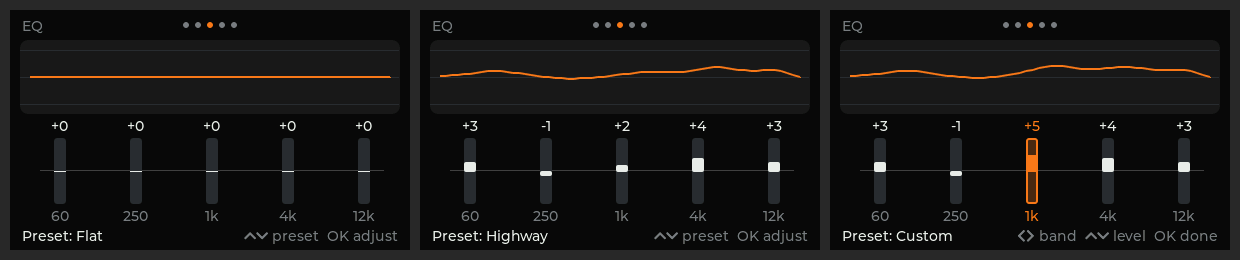
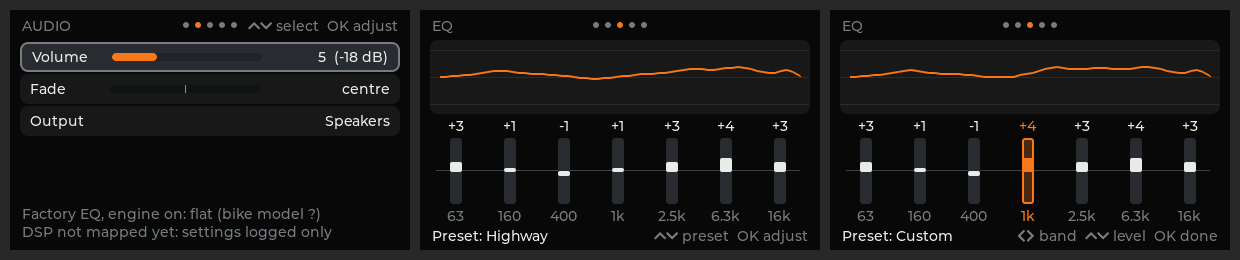
Tone is a 7-band EQ; drop stock bass/treble
Bass/treble overlapped the EQ's end bands and used 2 of the 7 biquads in
the set stock's DSP_SET_TONE writes, which is what limited the EQ to 5
bands. Per direction, assume all 7 slots are available and make the EQ
the only tone control.

- libhbas/eq: 7 bands at ISO spacing (63, 160, 400 Hz, 1, 2.5, 6.3,
  16 kHz), Q 1.05 to match the ~1.33-octave spacing, presets redone for
  7 bands; tests: one band at full boost hits its gain at centre, all
  bands at +/-10 dB stay encodable and fit one 35-word safe-load.
- libhbas/audio: bass/treble removed from settings, items and dB output.
- Audio page: Volume, Fade, Output; "Factory EQ" label for the automatic
  profile so it isn't confused with the EQ page.
- EQ page: 7 sliders; logging backend shows the 7-biquad safe-load.
- AUDIO.md: records the 7-free-slots assumption and that bench capture
  item 3 is the check for it.

Verified: libhbas 5/5, PC builds, radio image cross-builds and validates.

diff --git a/software/hogtied-ui/src/ui_audio.c b/software/hogtied-ui/src/ui_audio.c
@@ -1,6 +1,7 @@
 // SPDX-License-Identifier: MIT
 /*
- * Audio page. Settings, ranges and step-to-dB curves are stock calibration
+ * Audio page: volume, fade, output. Tone is the 7-band EQ page (ui_eq.c),
+ * which replaces stock's bass/treble. Ranges and step-to-dB curves are stock calibration
  * (libhbas/audio, docs/findings/AUDIO.md). The factory EQ profile follows
  * the engine-running flag from the bike, as stock eqService does.
  *
@@ -16,7 +17,7 @@
 enum { ROW_H = 30, ROW_Y0 = 32 };
 
 static const char *const row_names[HBAS_AI_COUNT] = {
-	"Volume", "Bass", "Treble", "Fade", "Output",
+	"Volume", "Fade", "Output",          /* tone lives on the EQ page */
 };
 static const char *const output_names[HBAS_OUT_COUNT] = {
 	"Speakers", "Driver headset", "Passenger headset",
@@ -90,10 +91,6 @@ static void refresh(void)
 	else
 		lv_label_set_text_fmt(row_val[HBAS_AI_VOLUME], "%u  (%d dB)", audio.volume[audio.output],
 				      hbas_volume_step_db(audio.volume[audio.output]));
-	lv_bar_set_value(row_bar[HBAS_AI_BASS], audio.bass, LV_ANIM_OFF);
-	lv_label_set_text_fmt(row_val[HBAS_AI_BASS], "%d dB", hbas_tone_step_db(audio.bass));
-	lv_bar_set_value(row_bar[HBAS_AI_TREBLE], audio.treble, LV_ANIM_OFF);
-	lv_label_set_text_fmt(row_val[HBAS_AI_TREBLE], "%d dB", hbas_tone_step_db(audio.treble));
 	lv_bar_set_value(row_bar[HBAS_AI_FADE], (int)audio.fade - HBAS_FADE_STEPS / 2, LV_ANIM_OFF);
 	if (audio.fade == HBAS_FADE_STEPS / 2)
 		lv_label_set_text(row_val[HBAS_AI_FADE], "centre");
@@ -108,7 +105,7 @@ static void refresh(void)
 	else
 		hbas_eq_profile_name(eq, sizeof(eq), bike_cfg < 0 ? 0 : (unsigned)bike_cfg,
 				     engine_running, audio.output);
-	lv_label_set_text_fmt(lbl_eq, "EQ auto, engine %s: %s",
+	lv_label_set_text_fmt(lbl_eq, "Factory EQ, engine %s: %s",
 			      last_engine < 0 ? "?" : engine_running ? "on" : "off", eq);
 	lv_label_set_text(lbl_dsp, backend && backend->apply ? "DSP not mapped yet: settings logged only"
 					 : "DSP: no audio backend");
@@ -143,8 +140,6 @@ void ui_audio_build(lv_obj_t *p)
 {
 	hbas_audio_defaults(&audio);
 	make_row(p, HBAS_AI_VOLUME, false, 0, HBAS_VOL_STEPS - 1);
-	make_row(p, HBAS_AI_BASS, false, 0, HBAS_TONE_STEPS - 1);
-	make_row(p, HBAS_AI_TREBLE, false, 0, HBAS_TONE_STEPS - 1);
 	make_row(p, HBAS_AI_FADE, true, -(HBAS_FADE_STEPS / 2), HBAS_FADE_STEPS / 2);
 	make_row(p, HBAS_AI_OUTPUT, false, 0, 0);
 	lbl_eq = ui_label(p, &lv_font_montserrat_14, COL_DIM, "");

diff --git a/software/libhbas/tests/test_eq.c b/software/libhbas/tests/test_eq.c
@@ -34,10 +34,15 @@ static void test_eq_model(void)
 	for (double f = 20; f < 20000; f *= 1.5)
 		CHECK(fabs(hbas_eq_response_db(&eq, HBAS_DSP_FS, f)) < 1e-6);
 	hbas_eq_set_preset(&eq, HBAS_EQ_BASS);
-	CHECK(hbas_eq_response_db(&eq, HBAS_DSP_FS, 60) > 6.0);      /* 60 Hz band + overlap */
+	CHECK(hbas_eq_response_db(&eq, HBAS_DSP_FS, 63) > 6.0);      /* 63 Hz band + overlap */
 	CHECK(fabs(hbas_eq_response_db(&eq, HBAS_DSP_FS, 12000)) < 0.5);
+	/* a single band at full boost hits close to its gain at its own centre */
+	hbas_eq_set_preset(&eq, HBAS_EQ_FLAT);
+	eq.gain_db[3] = 10;
+	CHECK(NEAR(hbas_eq_response_db(&eq, HBAS_DSP_FS, 1000), 10.0, 0.01));
+	hbas_eq_set_preset(&eq, HBAS_EQ_BASS);
 	CHECK(eq.preset == HBAS_EQ_BASS);
-	CHECK(hbas_eq_adjust(&eq, 2, +1) && eq.gain_db[2] == 1 && eq.preset == HBAS_EQ_CUSTOM);
+	CHECK(hbas_eq_adjust(&eq, 3, +1) && eq.gain_db[3] == 1 && eq.preset == HBAS_EQ_CUSTOM);
 	for (int i = 0; i < 30; i++)
 		hbas_eq_adjust(&eq, 0, +1);
 	CHECK(eq.gain_db[0] == HBAS_EQ_MAX_DB && !hbas_eq_adjust(&eq, 0, +1));
@@ -59,6 +64,26 @@ static void test_dsp_words(void)
 	/* same structural relation every factory peaking filter has: B1 = -A1(stored) */
 	CHECK(w[1] == -w[4]);
 	CHECK(hbas_biquad_to_dsp(&huge, w) == -1);                    /* outside +/-16 */
+}
+
+static void test_full_eq_fits_one_safeload(void)
+{
+	/* all 7 bands at extreme settings stay encodable and fit one safe-load */
+	int32_t words[HBAS_EQ_BANDS * 5];
+	uint8_t f[3][3 + 4 * HBAS_DSP_SAFELOAD_MAX];
+	size_t len[3];
+
+	CHECK(HBAS_EQ_BANDS == HBAS_DSP_BIQUADS_PER_SET);
+	for (int g = -HBAS_EQ_MAX_DB; g <= HBAS_EQ_MAX_DB; g += HBAS_EQ_MAX_DB) {
+		for (int b = 0; b < HBAS_EQ_BANDS; b++) {
+			struct hbas_biquad bq;
+
+			hbas_biquad_peaking(&bq, HBAS_DSP_FS, hbas_eq_band_hz[b], g, HBAS_EQ_Q);
+			CHECK(hbas_biquad_to_dsp(&bq, &words[5 * b]) == 0);
+		}
+		CHECK(hbas_dsp_safeload(HBAS_DSP_BIQUAD_BASE, words, HBAS_EQ_BANDS * 5, f, len) == 3);
+		CHECK(len[0] == 3 + 4 * 35);
+	}
 }
 
 static void test_safeload_frames(void)
@@ -85,6 +110,7 @@ int main(void)
 	test_peaking_math();
 	test_eq_model();
 	test_dsp_words();
+	test_full_eq_fits_one_safeload();
 	test_safeload_frames();
 	if (failures) {
 		fprintf(stderr, "%d check(s) failed\n", failures);

diff --git a/software/hogtied-ui/src/main.c b/software/hogtied-ui/src/main.c
@@ -130,9 +130,9 @@ static void log_apply(void *ctx, const struct hbas_audio_db *db, bool muted,
 {
 	(void)ctx;
 	if (!audio_log_quiet)
-		fprintf(stderr, "audio: out=%d vol=%d dB bass=%d dB treble=%d dB "
+		fprintf(stderr, "audio: out=%d vol=%d dB "
 			"fade front=%d rear=%d dB%s (not sent: DSP map unknown)\n",
-			out, db->volume_db, db->bass_db, db->treble_db,
+			out, db->volume_db,
 			db->fade_front_db, db->fade_rear_db, muted ? " MUTED" : "");
 }
 
@@ -161,10 +161,10 @@ static void log_user_eq(void *ctx, const struct hbas_eq *eq)
 	}
 	if (audio_log_quiet)
 		return;
-	fprintf(stderr, "audio: user EQ %s [%+d %+d %+d %+d %+d] dB -> %s%zu-frame safe-load "
-		"of %d words (not sent: DSP slot unknown)\n",
+	fprintf(stderr, "audio: EQ %s [%+d %+d %+d %+d %+d %+d %+d] dB -> %s%zu-frame safe-load "
+		"of %d words to biquads 0-6 (not sent: assumed slots, unconfirmed)\n",
 		hbas_eq_preset_name(eq->preset), eq->gain_db[0], eq->gain_db[1], eq->gain_db[2],
-		eq->gain_db[3], eq->gain_db[4], ok ? "" : "OUT OF RANGE ",
+		eq->gain_db[3], eq->gain_db[4], eq->gain_db[5], eq->gain_db[6], ok ? "" : "OUT OF RANGE ",
 		hbas_dsp_safeload(HBAS_DSP_BIQUAD_BASE, words, HBAS_EQ_BANDS * 5, frames, len),
 		HBAS_EQ_BANDS * 5);
 }
@@ -194,11 +194,11 @@ static int snapshot(const char *prefix)
 		{ 11000, "", "02-accelerating" },
 		{ 22000, "", "03-cruise-low-fuel" },
 		{ 22100, "R", "04-audio" },
-		{ 22200, "DERRR", "05-audio-bass-adjust" },        /* bass +3 steps */
-		{ 22300, "EDDDER", "06-audio-driver-headset" },    /* output -> headset, fade hides */
+		{ 22200, "DERRR", "05-audio-fade-adjust" },        /* fade 3 steps front */
+		{ 22300, "EDER", "06-audio-driver-headset" },      /* output -> headset, fade hides */
 		{ 22400, "ER", "07-eq-flat" },
 		{ 22500, "DDD", "08-eq-preset-highway" },          /* Flat -> Bass -> Vocal -> Highway */
-		{ 22600, "ERRUUU", "09-eq-adjust-1k" },            /* 1 kHz band +3 -> Custom */
+		{ 22600, "ERRRUUU", "09-eq-adjust-1k" },           /* 1 kHz band +3 -> Custom */
 		{ 22700, "ER", "10-tires" },
 		{ 22800, "R", "11-system" },
 		{ 22900, "B", "12-back-to-dash" },

diff --git a/software/libhbas/include/hbas/audio.h b/software/libhbas/include/hbas/audio.h
@@ -16,7 +16,6 @@
 #include "hbas/eq.h"
 
 #define HBAS_VOL_STEPS   18   /* 0..17, step 0 = mute */
-#define HBAS_TONE_STEPS  17   /* 0..16 */
 #define HBAS_FADE_STEPS  17   /* 0..16, 8 = centre */
 #define HBAS_VOL_DEFAULT 5    /* audioMgr.cfg default_volumes */
 
@@ -28,7 +27,8 @@ enum hbas_audio_output {
 
 struct hbas_audio_settings {
 	uint8_t volume[HBAS_OUT_COUNT];   /* media volume step per output */
-	uint8_t bass, treble;             /* tone steps */
+	/* No bass/treble: tone is the 7-band user EQ (hbas/eq.h), which takes
+	 * over the biquad set stock uses for its bass/treble knobs. */
 	uint8_t fade;                     /* 0 = front only .. 8 centre .. 16 rear only */
 	enum hbas_audio_output output;    /* where media plays */
 	bool muted;
@@ -38,22 +38,19 @@ struct hbas_audio_settings {
 /* The dB values a backend applies, from the stock curves. */
 struct hbas_audio_db {
 	int volume_db;                    /* -100 = silent */
-	int bass_db, treble_db;
 	int fade_front_db, fade_rear_db;
 };
 
 void hbas_audio_defaults(struct hbas_audio_settings *s);
 
-/* Step tables (stock): volume_ctrl_step_curve, bass/treble/fade_response_curve */
+/* Step tables (stock): volume_ctrl_step_curve, fade_response_curve */
 int hbas_volume_step_db(unsigned step);
-int hbas_tone_step_db(unsigned step);
 void hbas_fade_step_db(unsigned step, int *front_db, int *rear_db);
 
 void hbas_audio_to_db(const struct hbas_audio_settings *s, struct hbas_audio_db *out);
 
 /* Adjust one setting by +/-1 step within its range; returns true if changed. */
-enum hbas_audio_item { HBAS_AI_VOLUME, HBAS_AI_BASS, HBAS_AI_TREBLE, HBAS_AI_FADE,
-		       HBAS_AI_OUTPUT, HBAS_AI_COUNT };
+enum hbas_audio_item { HBAS_AI_VOLUME, HBAS_AI_FADE, HBAS_AI_OUTPUT, HBAS_AI_COUNT };
 bool hbas_audio_adjust(struct hbas_audio_settings *s, enum hbas_audio_item item, int delta);
 
 /* What stock loads when the profile file is missing ("BUILT IN FLAT EQ"). */

diff --git a/software/libhbas/src/audio.c b/software/libhbas/src/audio.c
@@ -21,12 +21,6 @@ void hbas_audio_defaults(struct hbas_audio_settings *s)
 	memset(s, 0, sizeof(*s));
 	for (int i = 0; i < HBAS_OUT_COUNT; i++)
 		s->volume[i] = HBAS_VOL_DEFAULT;
-	/*
-	 * TODO: unconfirmed - which tone step is "flat". The stock bass/treble
-	 * curves map step N to N dB (0..16) and don't say which step the HMI
-	 * starts at; the middle step is used here.
-	 */
-	s->bass = s->treble = HBAS_TONE_STEPS / 2;
 	s->fade = HBAS_FADE_STEPS / 2;
 	s->output = HBAS_OUT_SPEAKERS;
 	s->speakers = 4;
@@ -35,12 +29,6 @@ void hbas_audio_defaults(struct hbas_audio_settings *s)
 int hbas_volume_step_db(unsigned step)
 {
 	return volume_curve[step < HBAS_VOL_STEPS ? step : HBAS_VOL_STEPS - 1];
-}
-
-int hbas_tone_step_db(unsigned step)
-{
-	/* bass_response_curve / treble_response_curve: step N -> N dB */
-	return (int)(step < HBAS_TONE_STEPS ? step : HBAS_TONE_STEPS - 1);
 }
 
 void hbas_fade_step_db(unsigned step, int *front_db, int *rear_db)
@@ -54,8 +42,6 @@ void hbas_fade_step_db(unsigned step, int *front_db, int *rear_db)
 void hbas_audio_to_db(const struct hbas_audio_settings *s, struct hbas_audio_db *out)
 {
 	out->volume_db = hbas_volume_step_db(s->volume[s->output]);
-	out->bass_db = hbas_tone_step_db(s->bass);
-	out->treble_db = hbas_tone_step_db(s->treble);
 	if (s->speakers == 4 && s->output == HBAS_OUT_SPEAKERS) {
 		hbas_fade_step_db(s->fade, &out->fade_front_db, &out->fade_rear_db);
 	} else {
@@ -81,8 +67,6 @@ bool hbas_audio_adjust(struct hbas_audio_settings *s, enum hbas_audio_item item,
 {
 	switch (item) {
 	case HBAS_AI_VOLUME: return step(&s->volume[s->output], delta, HBAS_VOL_STEPS - 1);
-	case HBAS_AI_BASS:   return step(&s->bass, delta, HBAS_TONE_STEPS - 1);
-	case HBAS_AI_TREBLE: return step(&s->treble, delta, HBAS_TONE_STEPS - 1);
 	case HBAS_AI_FADE:
 		return s->speakers == 4 && step(&s->fade, delta, HBAS_FADE_STEPS - 1);
 	case HBAS_AI_OUTPUT: {

diff --git a/software/libhbas/include/hbas/eq.h b/software/libhbas/include/hbas/eq.h
@@ -4,10 +4,11 @@
  *
  * Verified (docs/findings/AUDIO.md sec. 6): coefficients are signed Q5.23,
  * the DSP stores the feedback terms negated, wire order is B2 B1 B0 A2 A1,
- * biquads sit at DSP address 222 + 5*i, up to 7 per set. Five EQ bands plus
- * the two stock tone controls fill exactly one set.
- * Open: DSP sample rate (48 kHz assumed) and which biquad slots the user EQ
- * may own.
+ * biquads sit at DSP address 222 + 5*i, up to 7 per set. The 7-band EQ fills
+ * that set, replacing stock's bass/treble (whose DSP_SET_TONE writes go to
+ * this bank).
+ * Open: DSP sample rate (48 kHz assumed); that all 7 slots are free for the
+ * user EQ is an assumption until the bench capture of stock bass/treble.
  */
 #ifndef HBAS_EQ_H
 #define HBAS_EQ_H
@@ -15,9 +16,9 @@
 #include <stddef.h>
 #include <stdint.h>
 
-#define HBAS_EQ_BANDS     5
+#define HBAS_EQ_BANDS     7
 #define HBAS_EQ_MAX_DB    10        /* slider range +/-10 dB, 1 dB steps */
-#define HBAS_EQ_Q         0.8       /* ~2 octaves wide: bands overlap smoothly */
+#define HBAS_EQ_Q         1.05      /* ~1.33 octaves wide, matching the band spacing */
 #define HBAS_DSP_FS       48000.0   /* TODO: unconfirmed - DSP sample rate */
 
 /* DSP layout (dsp_layout_map.json) */
@@ -27,7 +28,7 @@
 #define HBAS_DSP_SAFELOAD_BASE  3   /* table entry 0 */
 #define HBAS_DSP_SAFELOAD_MAX   60  /* words per safe-load */
 
-extern const uint16_t hbas_eq_band_hz[HBAS_EQ_BANDS];   /* 60 250 1k 4k 12k */
+extern const uint16_t hbas_eq_band_hz[HBAS_EQ_BANDS];   /* 63 .. 16k, 7-band ISO spacing */
 
 enum hbas_eq_preset { HBAS_EQ_FLAT, HBAS_EQ_BASS, HBAS_EQ_VOCAL, HBAS_EQ_HIGHWAY,
 		      HBAS_EQ_CUSTOM, HBAS_EQ_PRESET_COUNT };

diff --git a/software/hogtied-ui/src/ui_eq.c b/software/hogtied-ui/src/ui_eq.c
@@ -1,6 +1,7 @@
 // SPDX-License-Identifier: MIT
 /*
- * EQ page: 5-band graphic EQ (libhbas/eq) with a live response curve.
+ * EQ page: 7-band graphic EQ (libhbas/eq) with a live response curve. It is
+ * the only tone control: it takes the biquad set stock uses for bass/treble.
  *
  * Keys: Up/Down choose a preset. Enter starts adjusting: Left/Right pick a
  * band, Up/Down move its slider, Enter or Back finishes. While not adjusting,
@@ -60,7 +61,7 @@ static void refresh(void)
 
 void ui_eq_build(lv_obj_t *p)
 {
-	static const char *const names[HBAS_EQ_BANDS] = { "60", "250", "1k", "4k", "12k" };
+	static const char *const names[HBAS_EQ_BANDS] = { "63", "160", "400", "1k", "2.5k", "6.3k", "16k" };
 	lv_obj_t *zero;
 
 	hbas_eq_set_preset(&eq, HBAS_EQ_FLAT);
@@ -81,7 +82,7 @@ void ui_eq_build(lv_obj_t *p)
 	series = lv_chart_add_series(chart, COL_ACCENT, LV_CHART_AXIS_PRIMARY_Y);
 
 	for (int b = 0; b < HBAS_EQ_BANDS; b++) {
-		int x = 30 + b * 76;
+		int x = 16 + b * 54;
 
 		val[b] = ui_label(p, &lv_font_montserrat_14, COL_TEXT, "0");
 		lv_obj_set_pos(val[b], x, 108);
@@ -109,8 +110,8 @@ void ui_eq_build(lv_obj_t *p)
 	/* 0 dB reference line across the sliders */
 	zero = lv_obj_create(p);
 	lv_obj_remove_style_all(zero);
-	lv_obj_set_pos(zero, 30, 160);
-	lv_obj_set_size(zero, 4 * 76 + 40, 1);
+	lv_obj_set_pos(zero, 16, 160);
+	lv_obj_set_size(zero, (HBAS_EQ_BANDS - 1) * 54 + 40, 1);
 	lv_obj_set_style_bg_color(zero, COL_DIM, 0);
 	lv_obj_set_style_bg_opa(zero, LV_OPA_50, 0);
 	lv_obj_move_background(zero);

diff --git a/software/libhbas/src/eq.c b/software/libhbas/src/eq.c
@@ -8,15 +8,16 @@
 #define M_PI 3.14159265358979323846
 #endif
 
-const uint16_t hbas_eq_band_hz[HBAS_EQ_BANDS] = { 60, 250, 1000, 4000, 12000 };
+const uint16_t hbas_eq_band_hz[HBAS_EQ_BANDS] = { 63, 160, 400, 1000, 2500, 6300, 16000 };
 
 /* Starting points; easy to retune once heard on the bike. */
 static const int8_t presets[HBAS_EQ_PRESET_COUNT][HBAS_EQ_BANDS] = {
-	[HBAS_EQ_FLAT]    = { 0, 0, 0, 0, 0 },
-	[HBAS_EQ_BASS]    = { 6, 3, 0, 0, 0 },
-	[HBAS_EQ_VOCAL]   = { -2, 0, 3, 3, 0 },
-	[HBAS_EQ_HIGHWAY] = { 3, -1, 2, 4, 3 },   /* lift over wind/engine noise */
-	[HBAS_EQ_CUSTOM]  = { 0, 0, 0, 0, 0 },
+	/*                   63 160 400 1k 2.5k 6.3k 16k */
+	[HBAS_EQ_FLAT]    = { 0,  0,  0, 0,  0,   0,  0 },
+	[HBAS_EQ_BASS]    = { 6,  4,  1, 0,  0,   0,  0 },
+	[HBAS_EQ_VOCAL]   = { -2, -1, 0, 2,  3,   1,  0 },
+	[HBAS_EQ_HIGHWAY] = { 3,  1, -1, 1,  3,   4,  3 },   /* lift over wind/engine noise */
+	[HBAS_EQ_CUSTOM]  = { 0,  0,  0, 0,  0,   0,  0 },
 };
 static const char *const preset_names[HBAS_EQ_PRESET_COUNT] = {
 	"Flat", "Bass", "Vocal", "Highway", "Custom",

diff --git a/software/libhbas/tests/test_audio.c b/software/libhbas/tests/test_audio.c
@@ -17,7 +17,6 @@ static void test_stock_curves(void)
 	CHECK(hbas_volume_step_db(5) == -18);        /* stock default step */
 	CHECK(hbas_volume_step_db(17) == 16);
 	CHECK(hbas_volume_step_db(99) == 16);        /* clamped */
-	CHECK(hbas_tone_step_db(0) == 0 && hbas_tone_step_db(16) == 16);
 	hbas_fade_step_db(8, &f, &r);
 	CHECK(f == 0 && r == 0);                     /* centre */
 	hbas_fade_step_db(0, &f, &r);
@@ -47,8 +46,8 @@ static void test_adjust_ranges(void)
 	CHECK(s.volume[HBAS_OUT_SPEAKERS] == 17);
 	CHECK(!hbas_audio_adjust(&s, HBAS_AI_VOLUME, +1));
 	for (int i = 0; i < 30; i++)
-		hbas_audio_adjust(&s, HBAS_AI_BASS, -1);
-	CHECK(s.bass == 0 && !hbas_audio_adjust(&s, HBAS_AI_BASS, -1));
+		hbas_audio_adjust(&s, HBAS_AI_VOLUME, -1);
+	CHECK(s.volume[HBAS_OUT_SPEAKERS] == 0 && !hbas_audio_adjust(&s, HBAS_AI_VOLUME, -1));
 	/* each output keeps its own volume */
 	CHECK(hbas_audio_adjust(&s, HBAS_AI_OUTPUT, +1) && s.output == HBAS_OUT_HEADSET_DRIVER);
 	CHECK(s.volume[HBAS_OUT_HEADSET_DRIVER] == 5);

diff --git a/docs/findings/AUDIO.md b/docs/findings/AUDIO.md
@@ -66,13 +66,15 @@ volume control, i.e. speed-sensitive volume) and a built-in fallback
 - `software/libhbas/audio.c`: settings model with the stock ranges and tables,
   per-output volume, fade only on 4-speaker bikes and only to speakers, and
   the stock EQ file naming (tested).
-- `hogtied-ui` Audio page: Volume, Bass, Treble, Fade, Output; the EQ profile
-  follows the engine-running flag from the bike.
-- `hogtied-ui` EQ page + `software/libhbas/eq.c`: a 5-band graphic EQ
-  (60 Hz, 250 Hz, 1 kHz, 4 kHz, 12 kHz, ±10 dB) with presets, made of RBJ
-  peaking biquads. They're encoded in the verified DSP format (sec. 6) and
-  packed into one safe-load of 25 words. Five EQ biquads plus the two stock
-  tone filters fill exactly one 7-biquad set.
+- `hogtied-ui` Audio page: Volume, Fade, Output; the factory EQ profile
+  follows the engine-running flag from the bike. **Bass/treble are dropped
+  on purpose**: the user EQ below replaces them.
+- `hogtied-ui` EQ page + `software/libhbas/eq.c`: a **7-band** graphic EQ
+  (63, 160, 400 Hz, 1, 2.5, 6.3, 16 kHz; ±10 dB; Q 1.05 for the ~1.33-octave
+  spacing) with presets, made of RBJ peaking biquads. They're encoded in the
+  verified DSP format (sec. 6) and packed into one 35-word safe-load. It's
+  the only tone control, and it **assumes all 7 biquads of the set stock's
+  bass/treble (`DSP_SET_TONE`, 0x907) write to are free** for it.
 - **Backend: logging only.** Every change produces the dB values a DSP backend
   would apply, but nothing is sent: the parameter-level writes behind
   0x906/0x907/0x913 aren't known yet.
@@ -101,9 +103,10 @@ points aren't. Record with timestamps, and note each HMI action as it's made.
 | 8 | Change source (media → phone → nav) | 0x90C, mixer writes | input gain / mixer |
 | 9 | Ride or replay speed changes | AVC-related writes | speed-sensitive volume curve |
 
-Items 2-5 are what the Audio page needs. For the EQ page, item 3 also
-answers which biquad slots carry tone and whether any are free for a user
-EQ, and the DSP sample rate (needed to compute coefficients) can be checked
+Items 2-5 are what the Audio page needs. For the EQ page, item 3 is the
+key check on the 7-free-slots assumption: it shows which of the 7 biquads
+stock's bass/treble actually rewrite, and whether the factory profile (0x905,
+tag 0x35 slot map) also puts filters there, and the DSP sample rate (needed to compute coefficients) can be checked
 by capturing a known bass/treble step and comparing its coefficients with
 the RBJ formulas at 44.1 vs 48 kHz. Static analysis of `audioCtrlSvc`'s
 `gain_services_*` and `fixed_tone_*` routines could recover some of it before

diff --git a/software/README.md b/software/README.md
@@ -34,7 +34,7 @@ right away. A window opens with the screen at 2x size, playing a demo ride.
 | Key | Does |
 |---|---|
 | Left / Right arrows | change page (Dash, Audio, EQ, Tires, System) |
-| Up / Down | Audio: pick a setting. EQ: change preset (or a band's level while adjusting) |
+| Up / Down | Audio: pick a setting. EQ (7 bands, the only tone control): change preset, or a band's level while adjusting |
 | Enter | start / finish adjusting (Audio: Left/Right change the value; EQ: Left/Right pick the band) |
 | Esc | back to Dash (or finish adjusting) |
 | close the window, or Ctrl+C in the terminal | quit |
